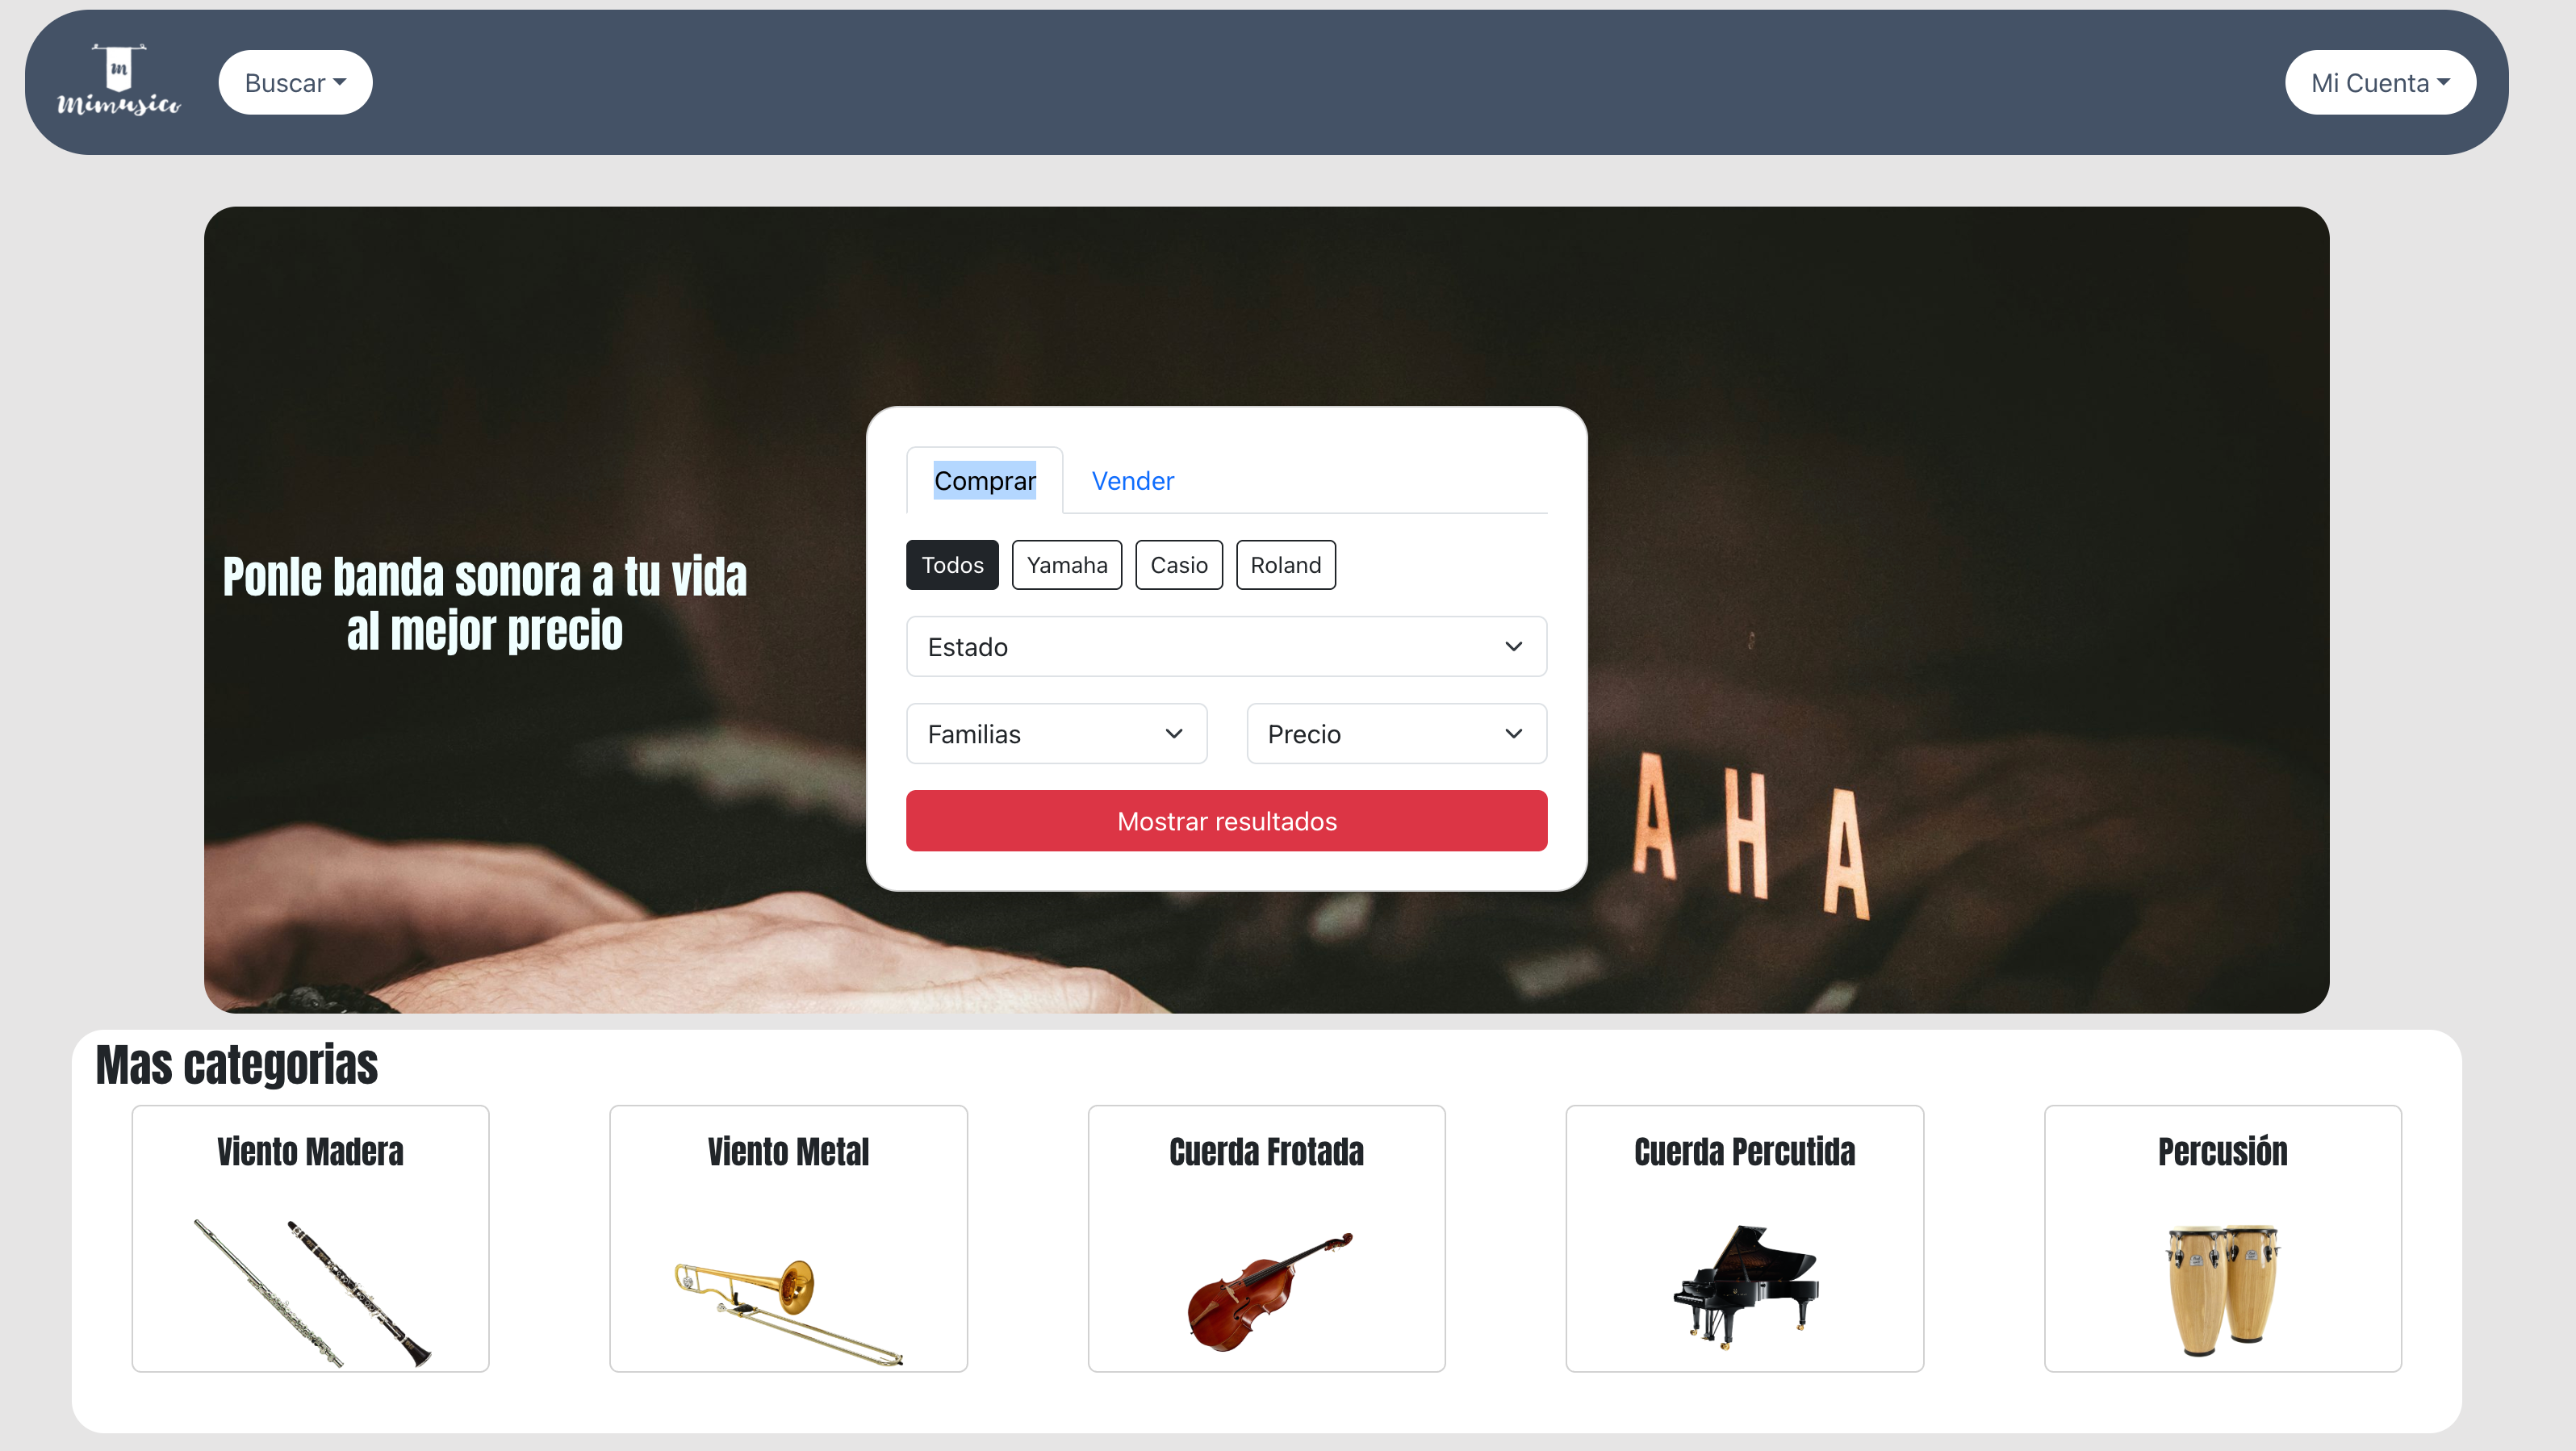
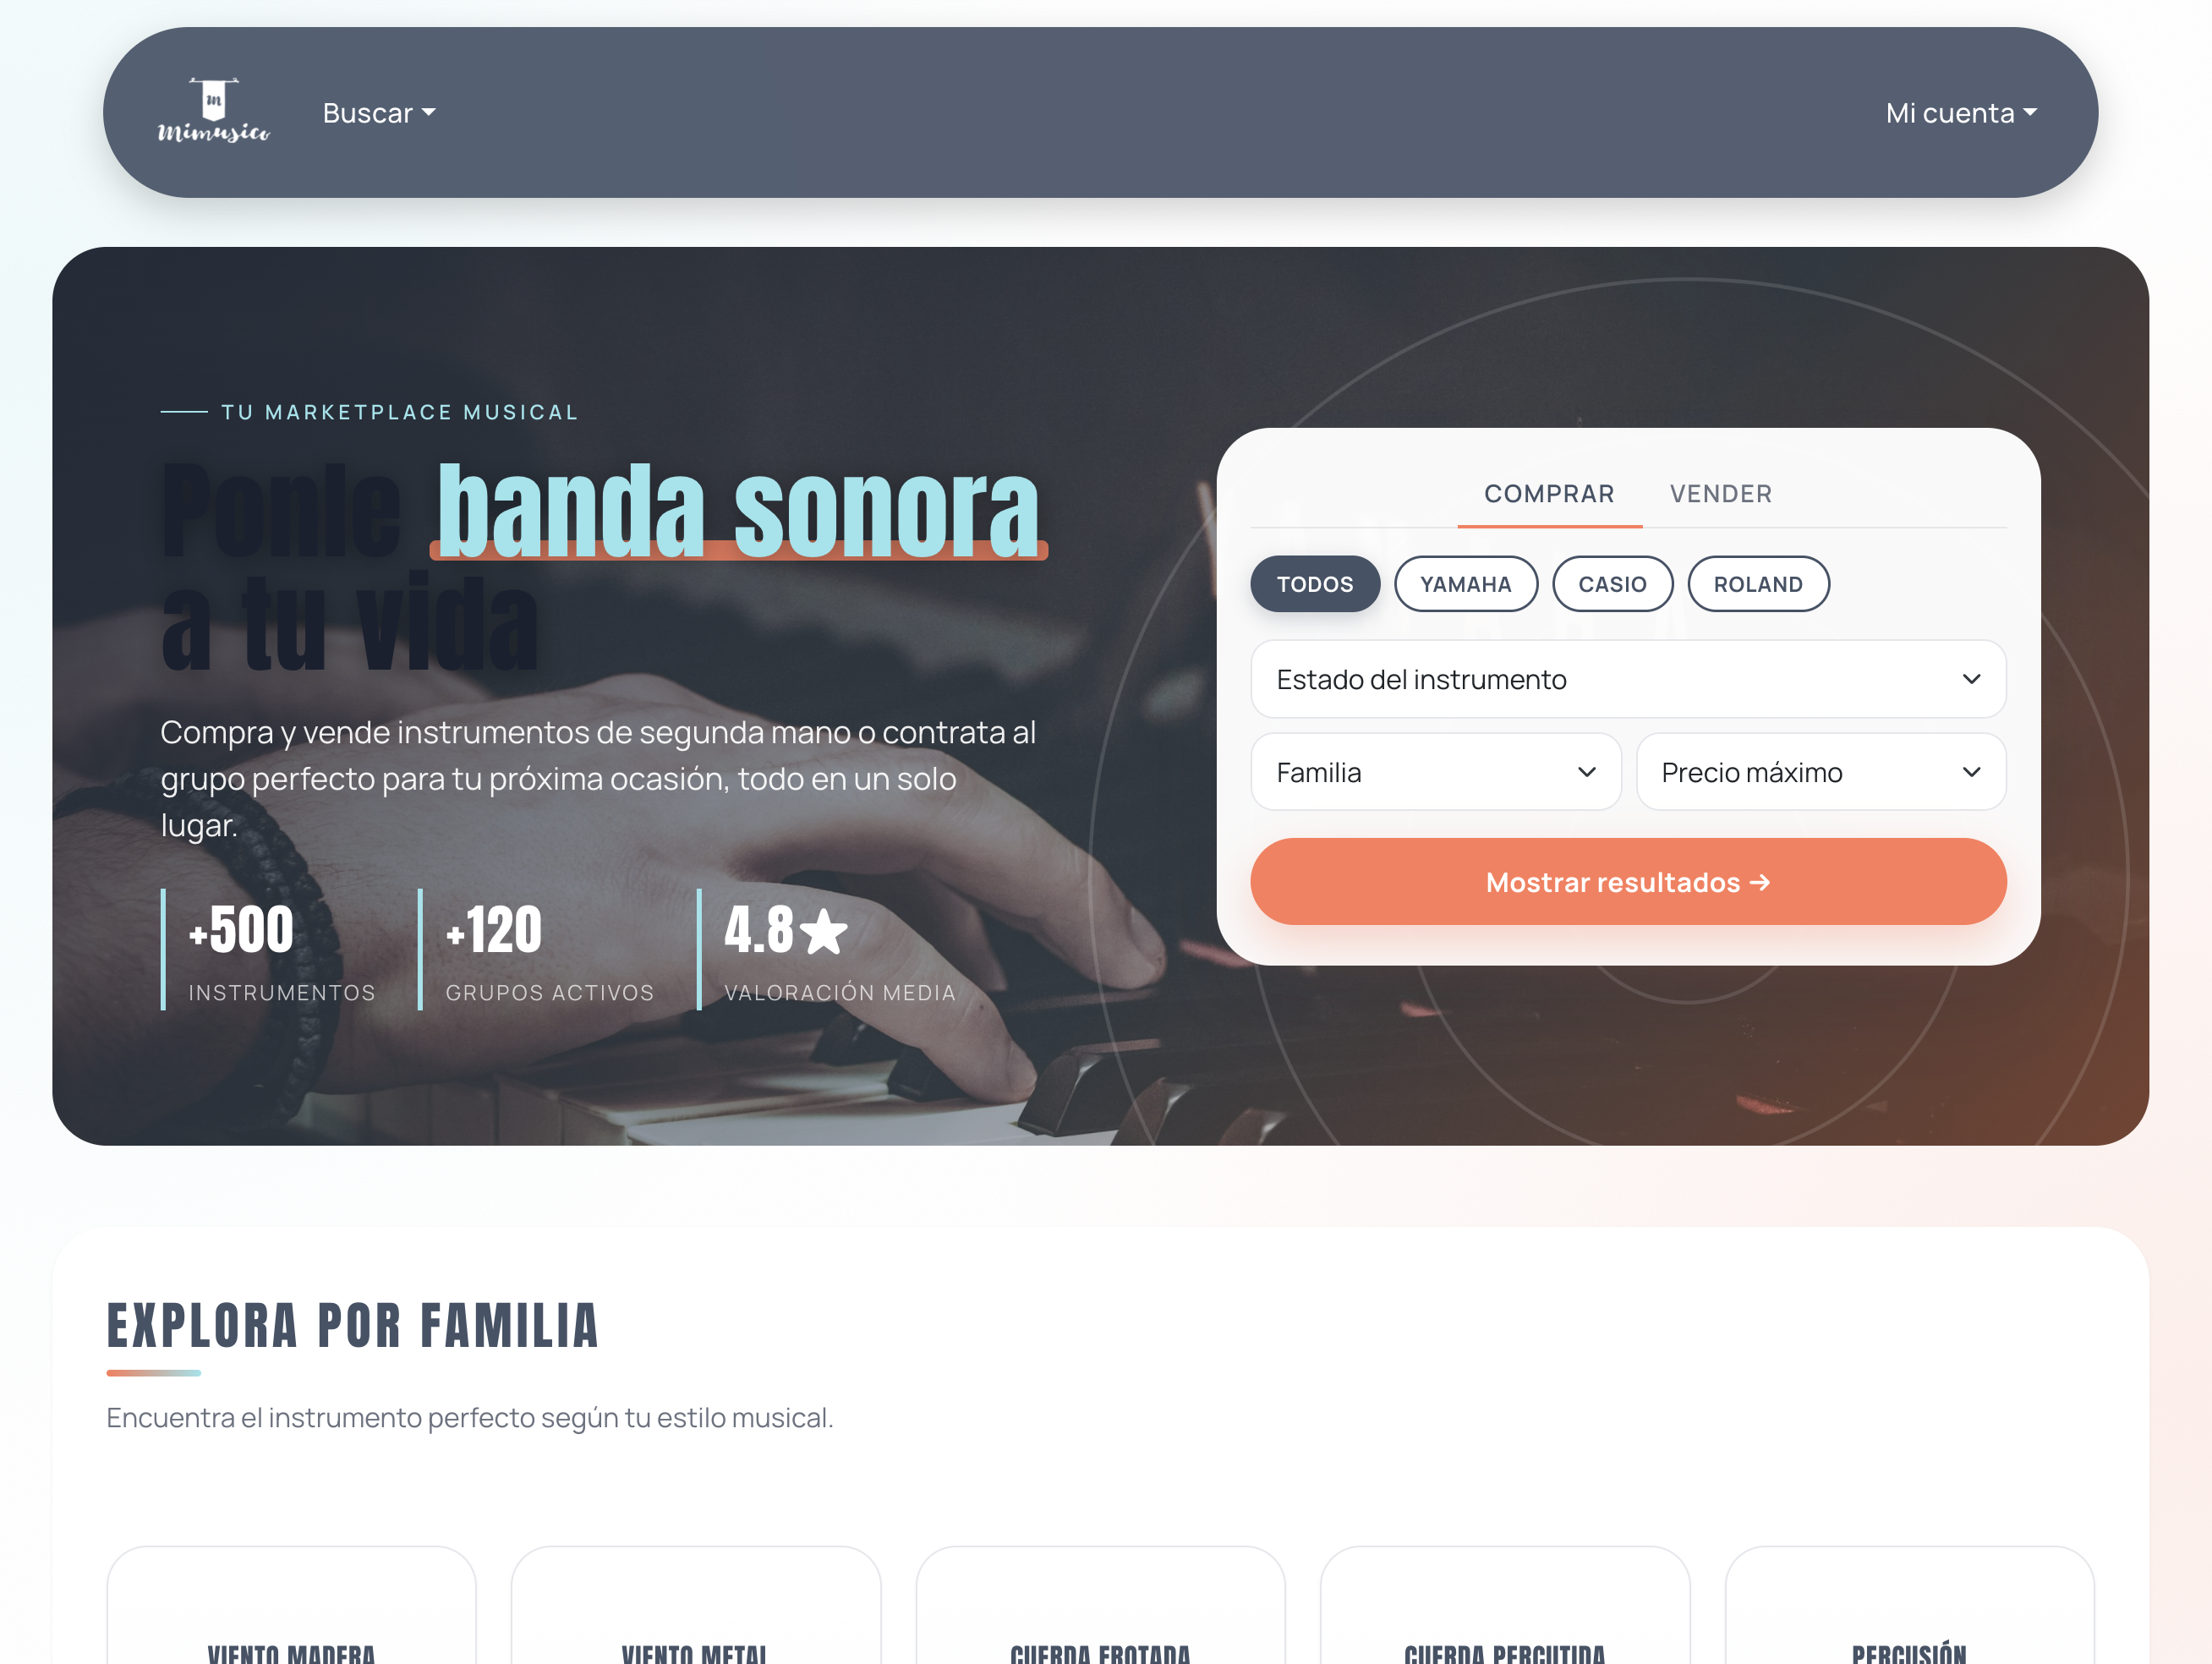
vuelta de mimusico

diff --git a/src/App.jsx b/src/App.jsx
@@ -726,6 +726,11 @@ const projectAssets = [
     liveUrl: "https://airb2b.netlify.app/",
     githubUrl: "https://github.com/pablojvm/AirB2B-Client",
   },
+  {
+    foto: "/captura1.png",
+    liveUrl: "https://mimusico.netlify.app",
+    githubUrl: "https://github.com/pablojvm/MiMusico-client",
+  },
 ];
 
 /* --------------------------- Product assets --------------------------- */